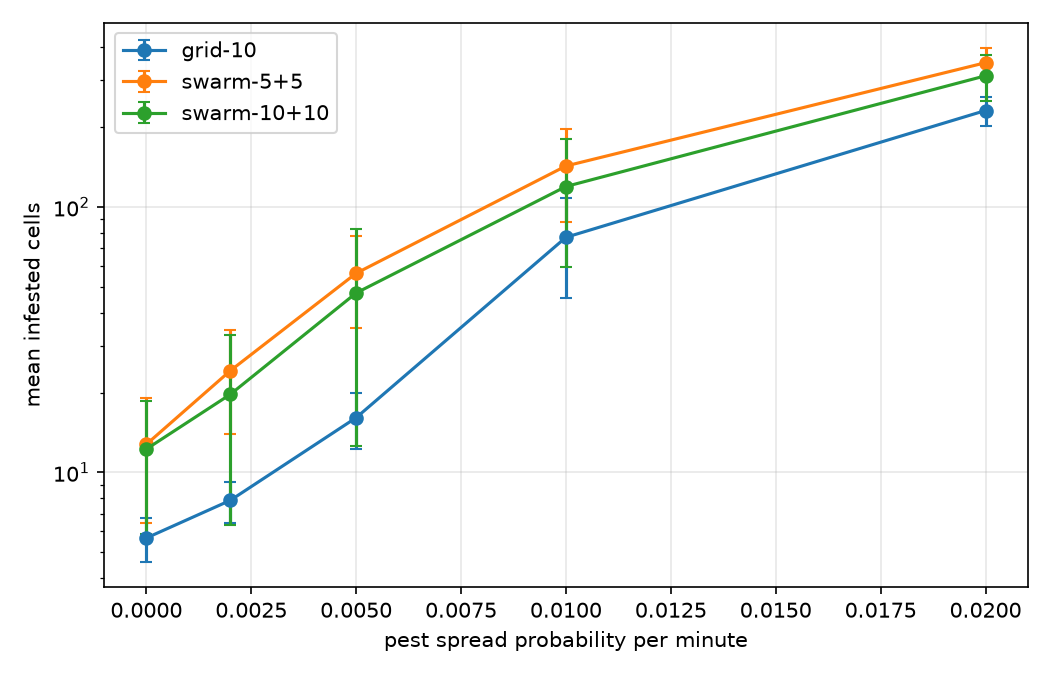
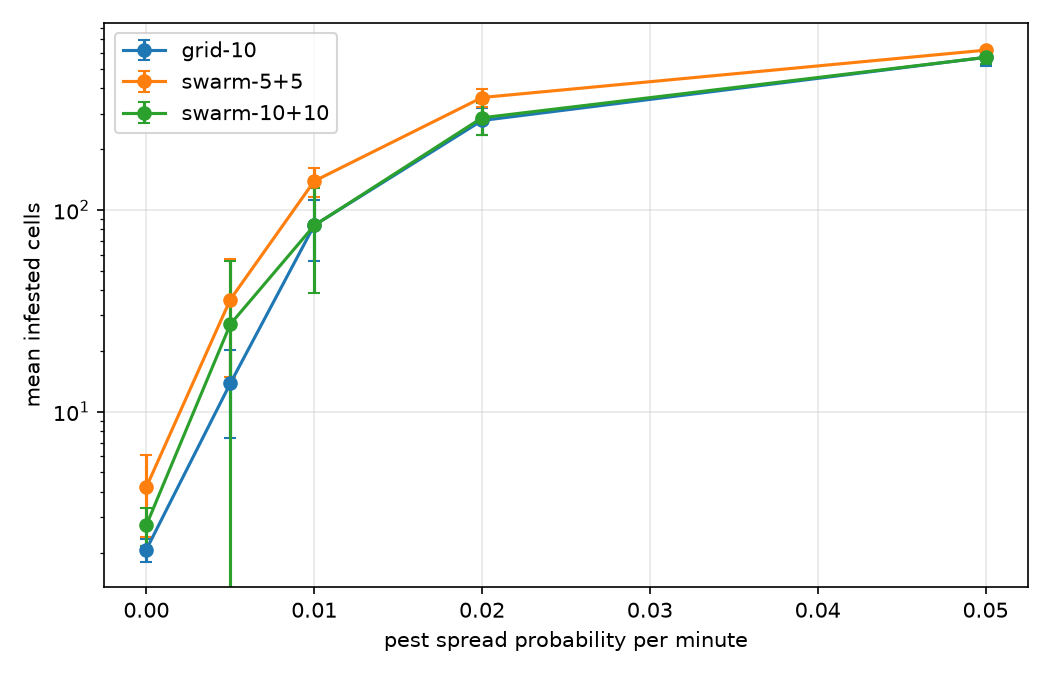
reduce jobs it takes 1 hour to run

diff --git a/studies/spread_threshold.py b/studies/spread_threshold.py
@@ -2,12 +2,17 @@
 
 Question: up to which spread rate do utility robots that each sweep a strip of the field keep the
 pests under control, and does the swarm hold out longer? Three systems, on the pest experiment's
-field with its pests (``PestScenario``):
+field (``PestScenario``):
 
 - ``grid-10``: ten utility robots at 0.5 m/s that sweep their own strip and treat what they drive
   over, sharing nothing (``tests/baselines.py``);
 - ``swarm-5+5``: the base demo of #67 (``PestScenario.smoke``): five scouts, five killers;
 - ``swarm-10+10``: the same swarm with twice the robots of each kind.
+
+Every run starts with ``INITIAL_PESTS`` pests of severity ``INITIAL_SEVERITY`` on random cells
+off the bottom row, drawn from the seed, so all systems face the same pests for the same seed. No
+pest appears after that: the only way pests multiply is by spreading, so the spread rate is the
+only variable.
 
 Each system is run at every spread rate with the same seeds. A run is out of control when its
 infested cells still grow at the end: their mean over the last hour is more than ``GROWTH_FACTOR``
@@ -19,7 +24,7 @@ Every run writes its metrics series, and the study one summary row per run, to `
 (``runs/spread_threshold`` by default), with a plot of the infested cells against the spread rate.
 Runs are spread over processes. Run from the repository root with:
 
-    uv run python -m studies.spread_threshold --seeds 5 --hours 3 --jobs 16
+    uv run python -m studies.spread_threshold --seeds 5 --hours 3 --jobs 8
 """
 
 from __future__ import annotations
@@ -29,6 +34,7 @@ from collections.abc import Callable
 from concurrent.futures import ProcessPoolExecutor
 from dataclasses import dataclass, replace
 from pathlib import Path
+from random import Random
 from statistics import mean, stdev
 
 from tests.baselines import grid_sweep_brain
@@ -43,7 +49,10 @@ from swarm_field.runner import (
     run_experiment,
 )
 
-DEFAULT_SPREADS = (0.0, 0.002, 0.005, 0.01, 0.02)
+DEFAULT_SPREADS = (0.0, 0.005, 0.01, 0.02, 0.05)
+INITIAL_PESTS = 10
+INITIAL_SEVERITY = 0.1
+"""The severity of a pest that has just appeared, as ``PestScenario.spawn_severity``."""
 GROWTH_FACTOR = 1.5
 GROWTH_FLOOR = 10
 
@@ -56,6 +65,7 @@ def _grid_sweep(robots: int) -> Callable[[int, float, float], ExperimentConfig]:
             scouts=0,
             killers=robots,
             radio_range_m=0.0,
+            pests_per_hour=0.0,
             spread_probability=spread,
             until=int(hours * TimeUnit.HOUR),
         )
@@ -71,6 +81,7 @@ def _swarm(scouts: int, killers: int) -> Callable[[int, float, float], Experimen
             PestScenario.smoke(seed),
             scouts=scouts,
             killers=killers,
+            pests_per_hour=0.0,
             spread_probability=spread,
             until=int(hours * TimeUnit.HOUR),
         )
@@ -104,9 +115,25 @@ class Job:
     hours: float
 
 
+def with_initial_pests(config: ExperimentConfig, seed: int) -> ExperimentConfig:
+    """``config`` with ``INITIAL_PESTS`` pests at the start, on random cells off the bottom row.
+
+    The cells depend only on the seed and the field, not on the robots, so every system faces the
+    same pests for the same seed; the bottom row is left free because the robots start there.
+    """
+    free: list[tuple[int, int]] = []
+    for cell in sorted(config.scenario.crops):
+        if cell[1] > 0:
+            free.append(cell)
+    infestation: dict[tuple[int, int], float] = {}
+    for cell in sorted(Random(seed).sample(free, INITIAL_PESTS)):
+        infestation[cell] = INITIAL_SEVERITY
+    return replace(config, scenario=replace(config.scenario, initial_infestation=infestation))
+
+
 def run(job: Job) -> RunSummary:
     """Build and run one job, labelled ``SYSTEM/spread-SPREAD/SEED``."""
-    config = SYSTEMS[job.system](job.seed, job.hours, job.spread)
+    config = with_initial_pests(SYSTEMS[job.system](job.seed, job.hours, job.spread), job.seed)
     label = f"{job.system}/spread-{job.spread:g}/{job.seed}"
     return run_experiment(replace(config, label=label, scenario_name="spread-threshold"))
 
@@ -160,12 +187,16 @@ class Point:
         spread_infested: Their standard deviation over the seeds; 0 for one seed.
         out_of_control: How many seeds ended out of control.
         seeds: How many seeds ran.
+        clean: How many seeds cleared every pest before the end.
+        clean_after: When those seeds' fields were clean, averaged over them, or ``None``.
     """
 
     mean_infested: float
     spread_infested: float
     out_of_control: int
     seeds: int
+    clean: int
+    clean_after: float | None
 
     @classmethod
     def from_runs(cls, runs: list[RunSummary]) -> Point:
@@ -174,10 +205,18 @@ class Point:
         if len(infested) > 1:
             deviation = stdev(infested)
         lost = 0
+        clean_times: list[int] = []
         for summary in runs:
             if is_out_of_control(summary):
                 lost += 1
-        return cls(mean(infested), deviation, lost, len(runs))
+            for sample in summary.series:
+                if sample.targets_remaining == 0:
+                    clean_times.append(sample.time)
+                    break
+        clean_after = None
+        if clean_times:
+            clean_after = mean(clean_times)
+        return cls(mean(infested), deviation, lost, len(runs), len(clean_times), clean_after)
 
     def is_lost(self) -> bool:
         """Whether most seeds ended out of control."""
@@ -210,6 +249,18 @@ def print_table(
                 f"{point.mean_infested:.1f} (sd {point.spread_infested:.1f}; "
                 f"{point.out_of_control}/{point.seeds} lost)"
             )
+        print(f"| {spread:g} | " + " | ".join(cells) + " |")
+    print("\n### Field clean: seeds that cleared every pest, and after how many minutes\n")
+    print("| Spread | " + " | ".join(systems) + " |")
+    print("| --- |" + " --- |" * len(systems))
+    for spread in spreads:
+        cells = []
+        for system in systems:
+            point = points[(system, spread)]
+            after = "-"
+            if point.clean_after is not None:
+                after = f"{point.clean_after / TimeUnit.MINUTE:.0f} min"
+            cells.append(f"{point.clean}/{point.seeds}, {after}")
         print(f"| {spread:g} | " + " | ".join(cells) + " |")
     print("\n### Threshold: the lowest spread rate at which most seeds are out of control\n")
     for system in systems:

diff --git a/docs/research/spread_threshold.md b/docs/research/spread_threshold.md
@@ -3,16 +3,18 @@
 Status: describes the grid-search baseline (`GridSweepSeeder` and `grid_sweep_brain` in `tests/baselines.py`), the study `studies/spread_threshold.py`, and its results. Reproducible with:
 
 ```bash
-uv run python -m studies.spread_threshold --seeds 5 --hours 3 --jobs 16
+uv run python -m studies.spread_threshold --seeds 5 --hours 3 --jobs 8
 ```
+
+Use at most about eight processes on a machine with 16 GB: with 18, a worker ran out of memory at the highest spread rates and the study was lost.
 
 ## The question
 
-A swarm is only worth its complexity if it does something simpler robots cannot. The simplest alternative is a grid search: utility robots that each sweep a strip of the field in a fixed pattern and treat whatever they drive over, without communicating. Such a sweep revisits every cell at a fixed period, so it should keep slow pests under control but fall behind once pests spread faster than the sweep comes back. The swarm reacts to a pest as soon as a scout sees it, so it should hold out to a higher spread rate. The study looks for that crossover.
+A swarm is only worth its complexity if it does something simpler robots cannot. The simplest alternative is a grid search: utility robots that each sweep a strip of the field in a fixed pattern and treat whatever they drive over, without communicating. Such a sweep revisits every cell at a fixed period, so it should keep slowly spreading pests under control but fall behind once pests spread faster than the sweep comes back. The swarm reacts to a pest as soon as a scout sees it, so it should hold out to a higher spread rate. The study looks for that crossover.
 
 ## Setup
 
-The field and pests of the base demo (`PestScenario.smoke`, see `smoke.md`): 32 × 32 cells of 10 m with a river and two rocks, 15 pests per hour, severity growing 0.05 per minute. The spread rate is the chance per minute that a pest of severity 1 infests each free neighbour (`WorldTick._spread`); it is varied over 0, 0.002, 0.005, 0.01 and 0.02. Five seeds per point, three simulated hours per run, sampled every minute.
+The field of the base demo (`PestScenario.smoke`, see `smoke.md`): 32 × 32 cells of 10 m with a river and two rocks. Every run starts with ten pests of severity 0.1 on random cells off the bottom row, drawn from the seed, so all systems face the same pests for the same seed. No pest appears after that, so pests only multiply by spreading, and the spread rate is the only variable: the chance per minute that a pest of severity 1 infests each free neighbour (`WorldTick._spread`), over 0, 0.005, 0.01, 0.02 and 0.05. Severity grows 0.05 per minute. Five seeds per point, three simulated hours per run, sampled every minute.
 
 | System | Robots | Behaviour |
 |---|---|---|
@@ -20,9 +22,9 @@ The field and pests of the base demo (`PestScenario.smoke`, see `smoke.md`): 32 
 | `swarm-5+5` | 5 scouts (1.5 m/s) + 5 killers (0.5 m/s) | the base demo: scouts explore, killers treat what they hear of over a 300 m radio |
 | `swarm-10+10` | 10 scouts + 10 killers | the same swarm with twice the robots |
 
-The utility robots have the killers' speed and abilities. A robot moves one cell in 20 s but decides only every 15 s, so in this simulation every robot, swept or swarm, spends 30 s per cell; a full sweep of a strip takes 50 to 65 minutes.
+The utility robots have the killers' speed and abilities. A robot moves one cell in 20 s but decides only every 15 s, so in this simulation every robot spends 30 s per cell; a full sweep of a strip takes 50 to 65 minutes.
 
-A run is out of control when its infested cells still grow at the end: their mean over the last hour is more than 1.5 times, and more than 10 cells above, their mean over the hour before. Hourly means keep the ups and downs of a steady run from counting. A system's threshold is the lowest spread rate at which most of its seeds are out of control.
+A run is out of control when its infested cells still grow at the end: their mean over the last hour is more than 1.5 times, and more than 10 cells above, their mean over the hour before. A system's threshold is the lowest spread rate at which most of its seeds are out of control.
 
 ## Results
 
@@ -30,33 +32,37 @@ Mean infested cells over the run, with the standard deviation over the seeds and
 
 | Spread | grid-10 | swarm-5+5 | swarm-10+10 |
 | --- | --- | --- | --- |
-| 0 | 5.7 (sd 1.0; 0/5 lost) | 12.8 (sd 6.3; 0/5 lost) | 12.2 (sd 6.4; 0/5 lost) |
-| 0.002 | 7.8 (sd 1.4; 0/5 lost) | 24.2 (sd 10.3; 4/5 lost) | 19.7 (sd 13.3; 2/5 lost) |
-| 0.005 | 16.1 (sd 3.8; 4/5 lost) | 56.3 (sd 21.3; 5/5 lost) | 47.4 (sd 34.9; 4/5 lost) |
-| 0.01 | 76.9 (sd 31.3; 5/5 lost) | 142.7 (sd 54.8; 5/5 lost) | 119.4 (sd 60.2; 5/5 lost) |
-| 0.02 | 230.8 (sd 29.8; 5/5 lost) | 349.4 (sd 46.9; 5/5 lost) | 312.0 (sd 62.0; 5/5 lost) |
+| 0 | 2.1 (sd 0.3; 0/5 lost) | 4.2 (sd 1.8; 0/5 lost) | 2.7 (sd 0.6; 0/5 lost) |
+| 0.005 | 13.8 (sd 6.4; 3/5 lost) | 36.0 (sd 21.1; 3/5 lost) | 27.1 (sd 28.5; 2/5 lost) |
+| 0.01 | 83.9 (sd 28.1; 5/5 lost) | 138.9 (sd 22.9; 5/5 lost) | 83.8 (sd 45.0; 4/5 lost) |
+| 0.02 | 277.5 (sd 42.1; 5/5 lost) | 360.8 (sd 37.3; 5/5 lost) | 286.2 (sd 51.6; 5/5 lost) |
+| 0.05 | 570.7 (sd 54.3; 1/5 lost) | 619.3 (sd 14.2; 0/5 lost) | 570.1 (sd 39.3; 0/5 lost) |
 
-Threshold: `grid-10` 0.005, `swarm-5+5` 0.002, `swarm-10+10` 0.005.
+Threshold: `grid-10` 0.005, `swarm-5+5` 0.005, `swarm-10+10` 0.01.
 
 ![Mean infested cells against the spread rate](../figures/spread-threshold.png)
 
-Infested cells at the end of each hour, mean over the seeds:
+Seeds whose field was clean before the end, and when, and the pests cleared out of those that appeared (means over the seeds):
 
-| Spread | grid-10 (1 / 2 / 3 h) | swarm-5+5 | swarm-10+10 |
+| Spread | grid-10 | swarm-5+5 | swarm-10+10 |
 | --- | --- | --- | --- |
-| 0 | 5.6 / 6.0 / 5.8 | 11.4 / 16.0 / 20.4 | 9.6 / 17.6 / 18.6 |
-| 0.002 | 9.4 / 7.4 / 9.2 | 15.0 / 29.0 / 53.0 | 13.8 / 24.6 / 39.2 |
-| 0.005 | 11.4 / 17.2 / 38.4 | 23.6 / 70.6 / 168.6 | 25.0 / 61.6 / 103.2 |
+| 0 | 5/5 clean after 69 min; 10.0 of 10.0 | 2/5 after 95 min; 8.0 of 10.0 | 3/5 after 115 min; 9.6 of 10.0 |
+| 0.005 | 1/5 after 158 min; 35.8 of 62.4 | 0/5; 45.8 of 124.0 | 1/5 after 90 min; 29.4 of 87.6 |
+| 0.01 | 0/5; 77.6 of 316.4 | 0/5; 55.0 of 426.4 | 0/5; 105.6 of 314.2 |
+| 0.02 | 0/5; 102.2 of 768.8 | 0/5; 55.0 of 852.8 | 0/5; 110.0 of 802.0 |
+| 0.05 | 0/5; 110.0 of 1049.4 | 0/5; 55.0 of 1003.0 | 0/5; 110.0 of 1034.0 |
 
 ## What the results show
 
-- **There is no spread rate in the range tested at which the swarm is needed: the grid search does better at every rate.** It keeps two to three times fewer cells infested than either swarm, stays steady up to a spread rate of 0.002, and only loses control from 0.005. The swarm of five plus five already loses control at 0.002, and even without spread its infested cells creep up hour by hour (11 → 16 → 20), because its killers clear only about half the pests (`smoke.md`).
-- **Twice the robots barely help the swarm.** The swarm of ten plus ten reaches the grid's threshold of 0.005, but with about three times as many infested cells at every rate. Its extra killers join the group the others already form, so they add little capacity.
-- **Why the grid wins here.** Every grid robot both finds and treats, and each one has its own strip, so ten robots do ten robots' work without overlap. In the swarm only half the robots can treat, and the killers drive as one group, which leaves about one killer's worth of treating for the whole field. The swarm's strength, reacting to news from anywhere, is spent driving five killers to the same pest.
+- **Without spread, the grid search clears the field fastest and most reliably.** All ten pests are gone after 69 minutes on average, in every seed, about one sweep. The swarm of five plus five clears eight of ten and leaves pests behind in three seeds out of five; ten plus ten clears 9.6 and is clean in three seeds, after almost two hours.
+- **The grid search stays ahead up to a spread rate of 0.005,** with less than half the infested cells of either swarm. At 0.005 every system already loses control in about half its seeds.
+- **The larger swarm catches up from 0.01, but only by treating as much as the grid.** At 0.01 swarm-10+10 and grid-10 keep the same number of cells infested (84), and the swarm loses control in four seeds against five; by the criterion its threshold is 0.01, one step above the grid's. At 0.02 the two are again level. The swarm of five plus five is worse than both at every rate.
+- **Above 0.01 every system is limited by its treatment supply, not by how it searches.** Each treatment uses a tenth of a robot's consumable and nothing refills it, so a robot treats at most eleven times. That is why the cleared pests stop at exactly 110 for ten treating robots and 55 for five, whatever the spread rate. From there the comparison measures how many robots can treat, not how well they find pests, and at 0.05 the field is simply full (about 940 of its 1,000 free cells infested), so the growth criterion no longer applies.
+
+So within the range where search matters (spread rates up to about 0.01), there is no spread rate at which the swarm is needed: the grid search is as good or better. Only twice the swarm, with as many treating robots as the grid has in total, matches it at 0.01.
 
 ## What would change the outcome
 
-The comparison is fair, but it tests the swarm as it is now. Two directions are likely to move the crossover:
-
-- **Fix the swarm's weak points first:** spread the killers over the known pests instead of letting them herd, and fix the EXPLORE oscillation at block edges (see `smoke.md`). Both raise the swarm's clearing rate directly, and the study can then be run again unchanged.
-- **Test where a grid search scales badly:** a larger field (a sweep's period grows with the area, a swarm's response does not), fewer robots per area, or robots that fail (a failed sweeper leaves its whole strip unwatched, while the swarm covers for it). The study's systems and spread rates are a list at the top of `studies/spread_threshold.py`, so these are small additions.
+- **Lift the consumable limit for this study,** by refilling it or giving robots more, so that from 0.01 on the systems are compared by how they find and reach pests rather than by how many treatments they carry. Until then, no result above 0.01 says anything about search.
+- **Fix the swarm's weak points:** spread the killers over the known pests instead of letting them herd, and fix the EXPLORE oscillation at block edges (see `smoke.md`). Both raise the swarm's clearing rate directly; the study can be run again unchanged.
+- **Test where a grid search scales badly:** a larger field (a sweep's period grows with the area, a swarm's response does not), fewer robots per area, or robots that fail (a failed sweeper leaves its whole strip unwatched).
